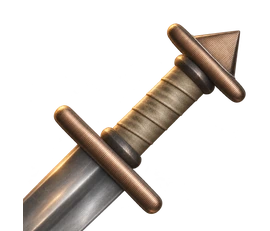
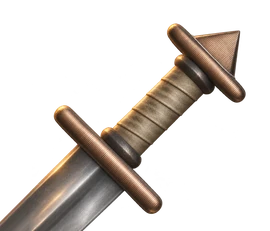
Phone and tablet polish: closer blade shot, side sheet in landscape, fuller backdrop
- Blade on phones is a close-up of the blade and its guard, framed from the
  parts themselves so every guard stays in view; on tablets it sits further right
- Phones on their side edit in a sheet docked to the right, with the sword beside it
- The backdrop reaches both edges (no dark band on the right) and, on portrait
  screens, shows more of the forge; embers and firelight follow it
- Larger, readable type-card names on phones; part steps in the sheet hug their names
- Viking type card's blade runs to the card's edge
- Quiets three.js's Clock deprecation notice raised by the canvas

Changed region(s): [[0.0, 0.8485, 0.0889, 1.0]]

diff --git a/src/components/scene/Scene.tsx b/src/components/scene/Scene.tsx
@@ -15,6 +15,13 @@ import { STATIONS, type StationId } from '../../presets/forge';
 import { HILT_OPTIONS } from '../../lib/hilt';
 import type { ArchetypeKey } from '../../store/configStore';
 
+// R3F (9.8 included) still makes a THREE.Clock for every <Canvas>, which three r183+ reports as deprecated on each
+// load. That one notice is not ours to fix; every other three.js message still reaches the console.
+THREE.setConsoleFunction((type: 'log' | 'warn' | 'error', message: string, ...params: unknown[]) => {
+  if (type === 'warn' && message.startsWith('THREE.Clock:')) return;
+  console[type](message, ...params);
+});
+
 // Camera sits at ~65° polar (above + side) for a presentation-angle view.
 const CAMERA_POSITION: [number, number, number] = [1.32, 1.1, 2.2];
 const OVERVIEW_DISTANCE = Math.hypot(...CAMERA_POSITION);
@@ -37,24 +44,34 @@ const SWORD_ROTATION: [number, number, number] = [0.08, 0, -0.80];
 // and the radius each close-up must keep in view, so narrow screens back off instead of cropping.
 const FOCUS_DISTANCE: Record<'guard' | 'grip' | 'pommel', number> = { guard: 0.85, grip: 0.8, pommel: 0.6 };
 const FOCUS_RADIUS: Record<'guard' | 'grip' | 'pommel', number> = { guard: 0.15, grip: 0.12, pommel: 0.09 };
-// Finish frames the whole sword; Blade frames the blade. Both fit the free area, never past its edges.
-const FIT_FILL_FINISH = 1.0, FIT_FILL_BLADE = 1.0;
+// Finish frames the whole sword; Blade frames the blade with the guard. Both fit the free area, never past its edges.
+// A portrait phone's free area is about square, so with the sword on its diagonal the blade can only be shown ~1.2×
+// larger than the whole sword: there Blade frames the blade alone, and Finish keeps some air, so the step between
+// them reads as a close-up.
+const FIT_FILL_FINISH = 1.0, FIT_FILL_FINISH_PHONE = 0.88, FIT_FILL_BLADE = 0.94, FIT_FILL_BLADE_PHONE = 0.96;
+// Blade's shot reaches this far below the guard's centre, as a share of the way to the grip's centre (0–1): on wide
+// screens the top of the grip. On phones, parts centred above this point join the blade's box: the guard, not the grip.
+const BLADE_HILT = 0.7, BLADE_HILT_PHONE = 0.5;
 // Overview: the whole sword must fit at any turn of the orbit, between the title and the sword types.
 const OVERVIEW_FILL = 0.92;
 const REFIT_MS = 450;
 const FINISH_DROP = 36;          // px: Finish sits this much below the free area's centre
-const BLADE_NUDGE = { x: 44, y: 12 };   // px: Blade sits this much right of and above the centre
+const BLADE_NUDGE = { x: 96, y: 12 };   // px: Blade sits this much right of and above the centre (beside the inspector)
 // Screen space taken by the edit panels: inspector on the right, variant row + nav at the bottom.
 const PANEL_RIGHT = 320, PANEL_BOTTOM = 220, MARGIN_TOP = 56;
 type Panels = { top: number; bottom: number; right: number };
 // Must match forge.css: on phones (≤ 700 px) the type row is smaller, and in edit mode a sheet at the bottom
-// holds the choices (see PhoneSheet); formerly the inspector spanned the top of the screen (at most 42% of it) instead of the right side.
+// holds the choices (see PhoneSheet). A phone on its side (≤ 500 px tall, landscape) also edits in the sheet, docked
+// to the right (as wide as SIDE_SHEET), with the sword framed on the left.
 const PHONE = 700;
-// The bottom inset clears the row of type cards (100 px tall; 0.8× on phones).
-const overviewPanels = (w: number): Panels => ({ top: 110, bottom: w <= PHONE ? 126 : 148, right: 0 });
+const sideSheet = (w: number, h: number) => h <= 500 && w > h;
+const SIDE_SHEET = (w: number) => Math.min(w * 0.46, 380) + 16;   // forge.css: min(46vw, 380px) + its 8 px margins
+// The bottom inset clears the row of type cards (100 px tall; 0.9× on phones).
+const overviewPanels = (w: number): Panels => ({ top: 110, bottom: w <= PHONE ? 136 : 148, right: 0 });
 // The phone sheet's height (set from the store before each framing; the bar with Done sits below it).
 let phoneSheetPx = 200;
-const editPanels = (w: number, h: number): Panels => (w <= PHONE ? { top: Math.round(h * 0.03), bottom: phoneSheetPx + 80, right: 0 } : { top: MARGIN_TOP, bottom: PANEL_BOTTOM, right: PANEL_RIGHT });
+const editPanels = (w: number, h: number): Panels => (sideSheet(w, h) ? { top: 12, bottom: 12, right: SIDE_SHEET(w) }
+  : w <= PHONE ? { top: Math.round(h * 0.03), bottom: phoneSheetPx + 80, right: 0 } : { top: MARGIN_TOP, bottom: PANEL_BOTTOM, right: PANEL_RIGHT });
 const PART_SHIFT_Y = 0.07;       // hilt parts: a little above centre (they're small; centred in the free space looked low)
 const FOV = 35;
 const READING_SHIFT = -0.17;   // sword moves right while the historical account is open
@@ -106,6 +123,31 @@ function fitDistance(axis: THREE.Vector3, viewDir: THREE.Vector3, w: number, h: 
   return Math.max(ey / (2 * tan * freeH * fill), ex / (2 * tan * (w / h) * freeW * fill));
 }
 
+// The phone's Blade shot: the blade and its guard as drawn (every mesh centred above `fromY`), boxed in the
+// sword's own space. Its centre is the shot's target; the distance fits its corners as seen from `viewDir`. Measured
+// rather than taken from the layout, so a long, curved or ringed guard stays inside the frame on every type.
+const _box = new THREE.Box3(), _all = new THREE.Box3(), _toLocal = new THREE.Matrix4(), _m = new THREE.Matrix4(), _p = new THREE.Vector3();
+function bladeShot(group: THREE.Object3D, fromY: number, viewDir: THREE.Vector3, w: number, h: number, fill: number) {
+  _toLocal.copy(group.matrixWorld).invert(); _all.makeEmpty();
+  group.traverse((o) => {
+    const mesh = o as THREE.Mesh;
+    if (!mesh.isMesh || !mesh.visible) return;
+    if (!mesh.geometry.boundingBox) mesh.geometry.computeBoundingBox();
+    _box.copy(mesh.geometry.boundingBox!).applyMatrix4(_m.multiplyMatrices(_toLocal, mesh.matrixWorld));
+    if ((_box.min.y + _box.max.y) / 2 > fromY) _all.union(_box);
+  });
+  const target = _all.getCenter(new THREE.Vector3()).applyMatrix4(group.matrixWorld);
+  const right = new THREE.Vector3().crossVectors(WORLD_UP, viewDir).normalize(), up = new THREE.Vector3().crossVectors(viewDir, right);
+  let hx = 0, hy = 0;
+  for (let i = 0; i < 8; i++) {
+    _p.set(i & 1 ? _all.max.x : _all.min.x, i & 2 ? _all.max.y : _all.min.y, i & 4 ? _all.max.z : _all.min.z).applyMatrix4(group.matrixWorld).sub(target);
+    hx = Math.max(hx, Math.abs(_p.dot(right))); hy = Math.max(hy, Math.abs(_p.dot(up)));
+  }
+  const tan = Math.tan(THREE.MathUtils.degToRad(FOV / 2)), p = editPanels(w, h);
+  const freeH = Math.max(0.3, (h - p.bottom - p.top) / h), freeW = Math.max(0.3, (w - p.right) / w);
+  return { target, dist: Math.max(hy / (tan * freeH * fill), hx / (tan * (w / h) * freeW * fill)) };
+}
+
 // Overview: the largest fit over a full turn of the orbit at the camera's current elevation.
 function overviewFit(axis: THREE.Vector3, phi: number, w: number, h: number) {
   const sph = new THREE.Spherical(1, phi, 0), v = new THREE.Vector3();
@@ -139,7 +181,7 @@ function SceneContents() {
 
   // Framing follows the screen size and the sword's length: a longer blade or a smaller screen re-fits.
   const sheetPx = useConfigStore((s) => s.sheetPx);
-  const sizeKey = `${size.width}x${size.height}x${size.width <= PHONE ? sheetPx : 0}`;
+  const sizeKey = `${size.width}x${size.height}x${size.width <= PHONE && !sideSheet(size.width, size.height) ? sheetPx : 0}`;
   const fitLayout = getSwordLayout(config);
   const geoKey = `${fitLayout.total.toFixed(3)}|${fitLayout.bladeLen.toFixed(3)}`;
   const dir = useRef(new THREE.Vector3());
@@ -217,19 +259,28 @@ function SceneContents() {
       const panels = editPanels(w, h);
       m.toShift = (panels.right / 2) / w;
       if (station === 'blade' || station === 'finish') {
-        const blade = station === 'blade', len = blade ? layout.bladeLen : layout.total;
-        m.toTarget.set(0, blade ? layout.bladeY : 0, 0).applyMatrix4(group.matrixWorld);
+        // Blade frames the blade with the guard (and on wide screens the top of the grip), so the shot shows where the
+        // blade springs from and the guard never sits on the screen's edge.
+        // Phones, upright or on their side, have little room: their own fills, and no drop or nudge on the side sheet.
+        const side = sideSheet(w, h), phone = w <= PHONE || side;
+        const blade = station === 'blade', bladeLo = layout.guardY - (layout.guardY - layout.gripY) * BLADE_HILT;
+        const len = blade ? layout.tipY - bladeLo : layout.total;
+        m.toTarget.set(0, blade ? (layout.tipY + bladeLo) / 2 : 0, 0).applyMatrix4(group.matrixWorld);
         // Always fitted as seen in the part's own shot (the blade's flat), even when the user has turned the
         // sword: fitting the turned view would zoom right in whenever the blade points at the camera.
-        m.toDist = fitDistance(axisOf(len), faceDir, w, h, blade ? FIT_FILL_BLADE : FIT_FILL_FINISH);
+        m.toDist = fitDistance(axisOf(len), faceDir, w, h, blade ? FIT_FILL_BLADE : phone ? FIT_FILL_FINISH_PHONE : FIT_FILL_FINISH);
+        if (blade && phone) {
+          const shot = bladeShot(group, layout.guardY - (layout.guardY - layout.gripY) * BLADE_HILT_PHONE, faceDir, w, h, FIT_FILL_BLADE_PHONE);
+          m.toTarget.copy(shot.target); m.toDist = shot.dist;
+        }
         // Centred in the free area; Finish sits a little lower than that.
-        m.toShiftY = ((panels.bottom - panels.top) / 2 + (blade ? BLADE_NUDGE.y : -FINISH_DROP)) / h;
-        if (blade && panels.right) m.toShift -= BLADE_NUDGE.x / w;
+        m.toShiftY = ((panels.bottom - panels.top) / 2 + (side ? 0 : blade ? BLADE_NUDGE.y : -FINISH_DROP)) / h;
+        if (blade && panels.right && !side) m.toShift -= BLADE_NUDGE.x / w;
       } else {
         const part = station as keyof typeof FOCUS_DISTANCE;
         m.toTarget.set(0, anchorY(station, layout), 0).applyMatrix4(group.matrixWorld);
         m.toDist = Math.max(FOCUS_DISTANCE[part], partFit(FOCUS_RADIUS[part], w, h));
-        m.toShiftY = w <= PHONE ? (panels.bottom - panels.top) / 2 / h : PART_SHIFT_Y;
+        m.toShiftY = w <= PHONE || sideSheet(w, h) ? (panels.bottom - panels.top) / 2 / h : PART_SHIFT_Y;
       }
     } else {
       m.toTarget.set(0, 0, 0);

diff --git a/src/components/ui/AppShell.tsx b/src/components/ui/AppShell.tsx
@@ -1,4 +1,4 @@
-import { type ReactNode, useEffect, useRef, useState } from 'react';
+import { type CSSProperties, type ReactNode, useEffect, useRef, useState } from 'react';
 import { tokens } from '../../styles/tokens';
 import { ViewportFrame } from './ViewportFrame';
 import { NoiseOverlay } from './NoiseOverlay';
@@ -7,7 +7,8 @@ import { Embers } from './Embers';
 import { ForgeUI } from '../forge/ForgeUI';
 import { makeAudioLayer, makePlaylist } from '../../lib/audio';
 import { LOW_TIER } from '../../lib/tier';
-import { setFireVideo } from '../../lib/forgeFire';
+import { plateShift, setFireVideo } from '../../lib/forgeFire';
+import { useViewportSize } from '../../hooks/useViewportSize';
 
 const ENTRY_EXIT_MS = 520;
 // Music, in playing order (generated with ElevenLabs music, chosen by the author).
@@ -103,6 +104,26 @@ function EntryScreen({ exiting, onEnter }: { exiting: boolean; onEnter: () => vo
   );
 }
 
+// The background plate, drawn 16 px past each edge (its blur would darken them) and framed by plateShift, which the
+// embers and the forge light also follow. maxWidth: Tailwind's base caps images and videos at 100 %, which cut the
+// overhang on the right and left a dark band down that edge. Its own component, so a resize re-renders only it.
+function Plate() {
+  const { width, height } = useViewportSize();
+  const style: CSSProperties = {
+    position: 'fixed', inset: '-16px', width: 'calc(100% + 32px)', height: 'calc(100% + 32px)', maxWidth: 'none',
+    objectFit: 'cover', objectPosition: `calc(50% + ${plateShift(width, height).toFixed(1)}px) 50%`,
+    filter: 'blur(10px)', zIndex: -2, pointerEvents: 'none', animation: 'cc-reveal 2s ease both',
+  };
+  return LOW_TIER ? (
+    <img src={`${import.meta.env.BASE_URL}background.webp`} alt="" aria-hidden="true" style={style} />
+  ) : (
+    // The 3D forge light follows the fire in this video (lib/forgeFire.ts).
+    <video ref={setFireVideo} autoPlay muted loop playsInline style={style}>
+      <source src={`${import.meta.env.BASE_URL}background.mp4`} type="video/mp4" />
+    </video>
+  );
+}
+
 type AppShellProps = { children: ReactNode };
 
 export function AppShell({ children }: AppShellProps) {
@@ -139,30 +160,7 @@ export function AppShell({ children }: AppShellProps) {
 
   return (
     <div style={{ position: 'relative', width: '100%', height: '100%' }}>
-      {LOW_TIER ? (
-        <img src={`${import.meta.env.BASE_URL}background.webp`} alt="" aria-hidden="true"
-          style={{ position: 'fixed', inset: '-16px', width: 'calc(100% + 32px)', height: 'calc(100% + 32px)', objectFit: 'cover', filter: 'blur(10px)', zIndex: -2, pointerEvents: 'none', animation: 'cc-reveal 2s ease both' }} />
-      ) : <video
-        // The 3D forge light follows the fire in this video (lib/forgeFire.ts).
-        ref={setFireVideo}
-        autoPlay
-        muted
-        loop
-        playsInline
-        style={{
-          position: 'fixed',
-          inset: '-16px',
-          width: 'calc(100% + 32px)',
-          height: 'calc(100% + 32px)',
-          objectFit: 'cover',
-          filter: 'blur(10px)',
-          zIndex: -2,
-          pointerEvents: 'none',
-          animation: 'cc-reveal 2s ease both',
-        }}
-      >
-        <source src={`${import.meta.env.BASE_URL}background.mp4`} type="video/mp4" />
-      </video>}
+      <Plate />
 
       {hasEntered && <AtmosphereOverlay />}
       {/* Sparks over the hearth: after the vignette in paint order, before the scene, so the sword covers them. */}

diff --git a/src/components/forge/forge.css b/src/components/forge/forge.css
@@ -309,7 +309,9 @@
   .forge .corner-l, .forge .corner-r:not(.focus-only) { top: 12px; }
   .forge .arch { left: 0; right: 0; bottom: 16px; transform: none; overflow-x: auto; overflow-y: hidden; touch-action: pan-x; overscroll-behavior-x: contain; padding: 10px 16px 4px; scroll-snap-type: x mandatory; scrollbar-width: none; }
   .forge.focus .arch { transform: translateY(16px); }
-  .forge .tcard { zoom: .8; scroll-snap-align: center; flex: none; }
+  /* Smaller cards, but the names stay readable: 12 px at .9 zoom is ~11 px on screen (it was 8.8 px at .8). */
+  .forge .tcard { zoom: .9; scroll-snap-align: center; flex: none; }
+  .forge .tcard .plate { font-size: 12px; letter-spacing: .01em; }
   /* Edit mode on phones: one bar under the sheet and as wide as it: Back to default as a square icon
      button, Done filling the rest (a wide primary action, its secondary beside it). */
   .forge .corner-r.focus-only { left: 8px; right: 8px; bottom: 12px; display: flex; gap: 8px; }
@@ -327,7 +329,8 @@
 /* What scrolls under the header and the variants melts away under a short fade, not a hard edge. */
 .forge .ps-more > div { -webkit-mask: linear-gradient(transparent, #000 18px); mask: linear-gradient(transparent, #000 18px); }
 .forge .ps-head b { font: var(--type-subheading); letter-spacing: var(--track-label-lg); color: var(--gold-hi); text-transform: uppercase; }
-.forge .ps-head .step { height: 32px; padding: 0 8px; font: var(--type-label-sm); }
+/* The steps hug their names (a grid item would stretch across its column, and so would its hover tint). */
+.forge .ps-head .step { justify-self: start; height: 32px; padding: 0 8px; font: var(--type-label-sm); }
 .forge .ps-head .step:last-child { justify-self: end; }
 .forge .psheet .chooser { position: relative; inset: auto; z-index: 1; flex: none; transform: none; justify-content: flex-start; overflow-x: auto; overflow-y: hidden; touch-action: pan-x; overscroll-behavior-x: contain; padding: 10px 12px 2px; scrollbar-width: none; scroll-snap-type: x proximity; }
 .forge .psheet .chooser .item { flex: none; scroll-snap-align: start; }
@@ -337,6 +340,15 @@
 .forge .inspector.embedded { position: static; width: auto; max-height: none; overflow: visible; padding: 10px 16px 0; animation: none; }
 .forge .inspector.embedded .insp-kicker { display: none; }
 .forge .inspector.embedded h2 { margin-top: 2px; }
+/* A phone on its side: the sheet docks to the right (the camera frames the sword in the space left of it, see
+   SIDE_SHEET in Scene.tsx), the bar with Done under it at the same width; the sheet grows upward when opened. */
+@media (max-height: 500px) and (orientation: landscape) {
+  .forge .psheet { left: auto; right: 8px; bottom: 68px; width: min(46vw, 380px); max-height: calc(100% - 76px); }
+  .forge .corner-r.focus-only { left: auto; right: 8px; bottom: 12px; width: min(46vw, 380px); display: flex; gap: 8px; }
+  .forge .corner-r.focus-only .btn { height: 48px; }
+  .forge .corner-r.focus-only .btn.icon { width: 48px; }
+  .forge .corner-r.focus-only .btn.primary { flex: 1; }
+}
 
 /* Tablets: the room around the scroll is a veil; a tap on it closes the scroll. */
 .forge .scroll-veil { display: none; position: absolute; inset: 0; z-index: 19; background: rgba(5, 3, 2, .38); opacity: 0; pointer-events: none; transition: opacity 260ms var(--ease-out); }

diff --git a/src/lib/forgeFire.ts b/src/lib/forgeFire.ts
@@ -35,16 +35,29 @@ export function readFire(): { level: number; warmth: number } {
   return reading;
 }
 
+// A portrait screen shows a narrow slice of the wide plate. Centred, that slice is the dark doorway; it is
+// centred instead on the stone pillar beside the hearth, so more of the forge shows on the left.
+const PORTRAIT_FOCUS_U = 0.46;
+
+/** How far the plate is moved right of its centred (object-fit: cover) place on a viewport of w × h, in CSS px:
+ *  0 on landscape screens, and never so far that its left edge comes into view. */
+export function plateShift(w: number, h: number, aspect = 16 / 9): number {
+  if (h <= w) return 0;
+  const pw = w + INSET * 2, ph = h + INSET * 2;
+  const W = Math.max(pw / aspect, ph) * aspect;
+  return Math.max(0, Math.min((0.5 - PORTRAIT_FOCUS_U) * W, (W - pw) / 2));
+}
+
 /**
  * Where a point of the plate (u, v: share of the frame) lands on a viewport of w × h, in CSS px, and the plate's
  * height in px (`H`, the unit the embers move in). The plate covers the viewport the way object-fit: cover does,
- * drawn 16 px past each edge.
+ * drawn 16 px past each edge, moved right by plateShift.
  */
 export function plateToScreen(u: number, v: number, w: number, h: number, aspect = 16 / 9): { x: number; y: number; H: number } {
   const pw = w + INSET * 2, ph = h + INSET * 2;
   const H = Math.max(pw / aspect, ph);               // plate height in px once it covers
   const W = H * aspect;
-  return { x: u * W - (W - pw) / 2 - INSET, y: v * H - (H - ph) / 2 - INSET, H };
+  return { x: u * W - (W - pw) / 2 - INSET + plateShift(w, h, aspect), y: v * H - (H - ph) / 2 - INSET, H };
 }
 
 /**

diff --git a/src/lib/screenshot.ts b/src/lib/screenshot.ts
@@ -1,3 +1,5 @@
+import { plateShift } from './forgeFire';
+
 // Blur radius matches the CSS applied to the background <video> element in AppShell.
 const BG_BLUR_PX = 10;
 
@@ -39,7 +41,9 @@ export async function takeScreenshot(): Promise<void> {
     const scale = Math.max(W / bg.width, H / bg.height);
     const drawW = bg.width * scale;
     const drawH = bg.height * scale;
-    ctx.drawImage(bg, (W - drawW) / 2, (H - drawH) / 2, drawW, drawH);
+    // Framed as on screen (AppShell): moved right on portrait screens, never past the plate's own edge.
+    const shift = Math.min(plateShift(innerWidth, innerHeight) * (W / innerWidth), (drawW - W) / 2);
+    ctx.drawImage(bg, (W - drawW) / 2 + shift, (H - drawH) / 2, drawW, drawH);
     ctx.filter = 'none';
     backgroundDrawn = true;
   } catch {

diff --git a/src/components/forge/ForgeUI.tsx b/src/components/forge/ForgeUI.tsx
@@ -228,7 +228,8 @@ const mq = (q: string) => { let m = queries.get(q); if (!m) { m = matchMedia(q);
 const useMedia = (q: string) => useSyncExternalStore(
   (cb) => { const m = mq(q); m.addEventListener('change', cb); return () => m.removeEventListener('change', cb); },
   () => mq(q).matches, () => false);
-const usePhone = () => useMedia('(max-width: 700px)');
+// Phones edit in the sheet, upright (≤ 700 px wide) or on their side (≤ 500 px tall, docked right; see forge.css).
+const usePhone = () => useMedia('(max-width: 700px), (max-height: 500px) and (orientation: landscape)');
 const useNarrow = () => useMedia('(max-width: 1179px)');
 
 function PhoneSheet({ station, choices, onStep, opens }: { station: StationId; choices: StationChoices; onStep: (d: number) => void; opens: number }) {
